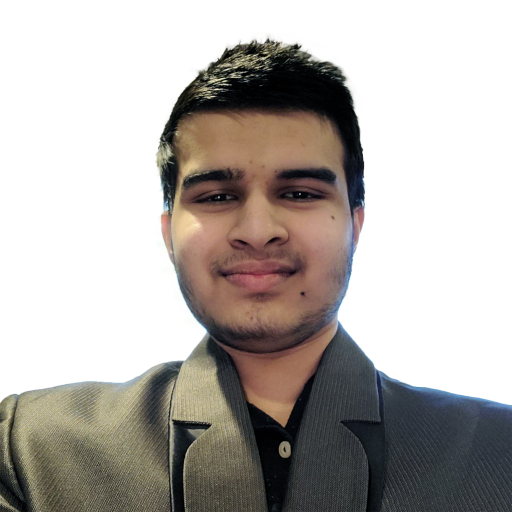
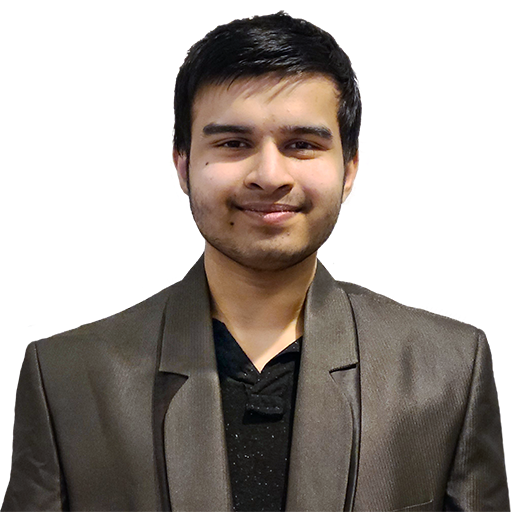
updated team member images

diff --git a/index.html b/index.html
@@ -639,7 +639,7 @@
                 <span class="thumb-info thumb-info-hide-wrapper-bg mb-4 border-radius-0">
                     <span class="thumb-info-wrapper border-radius-0">
                         <a>
-                            <img src="img/team/compressed/leoPic.png" class="img-fluid border-radius-0" alt="">
+                            <img src="img/team/compressed/leoPic.jpg" class="img-fluid border-radius-0" alt="">
                             <span class="thumb-info-title">
                                 <span class="thumb-info-inner monky">Leo Xu</span>
                                 <span class="thumb-info-inner monkye">Program Lead</span>
